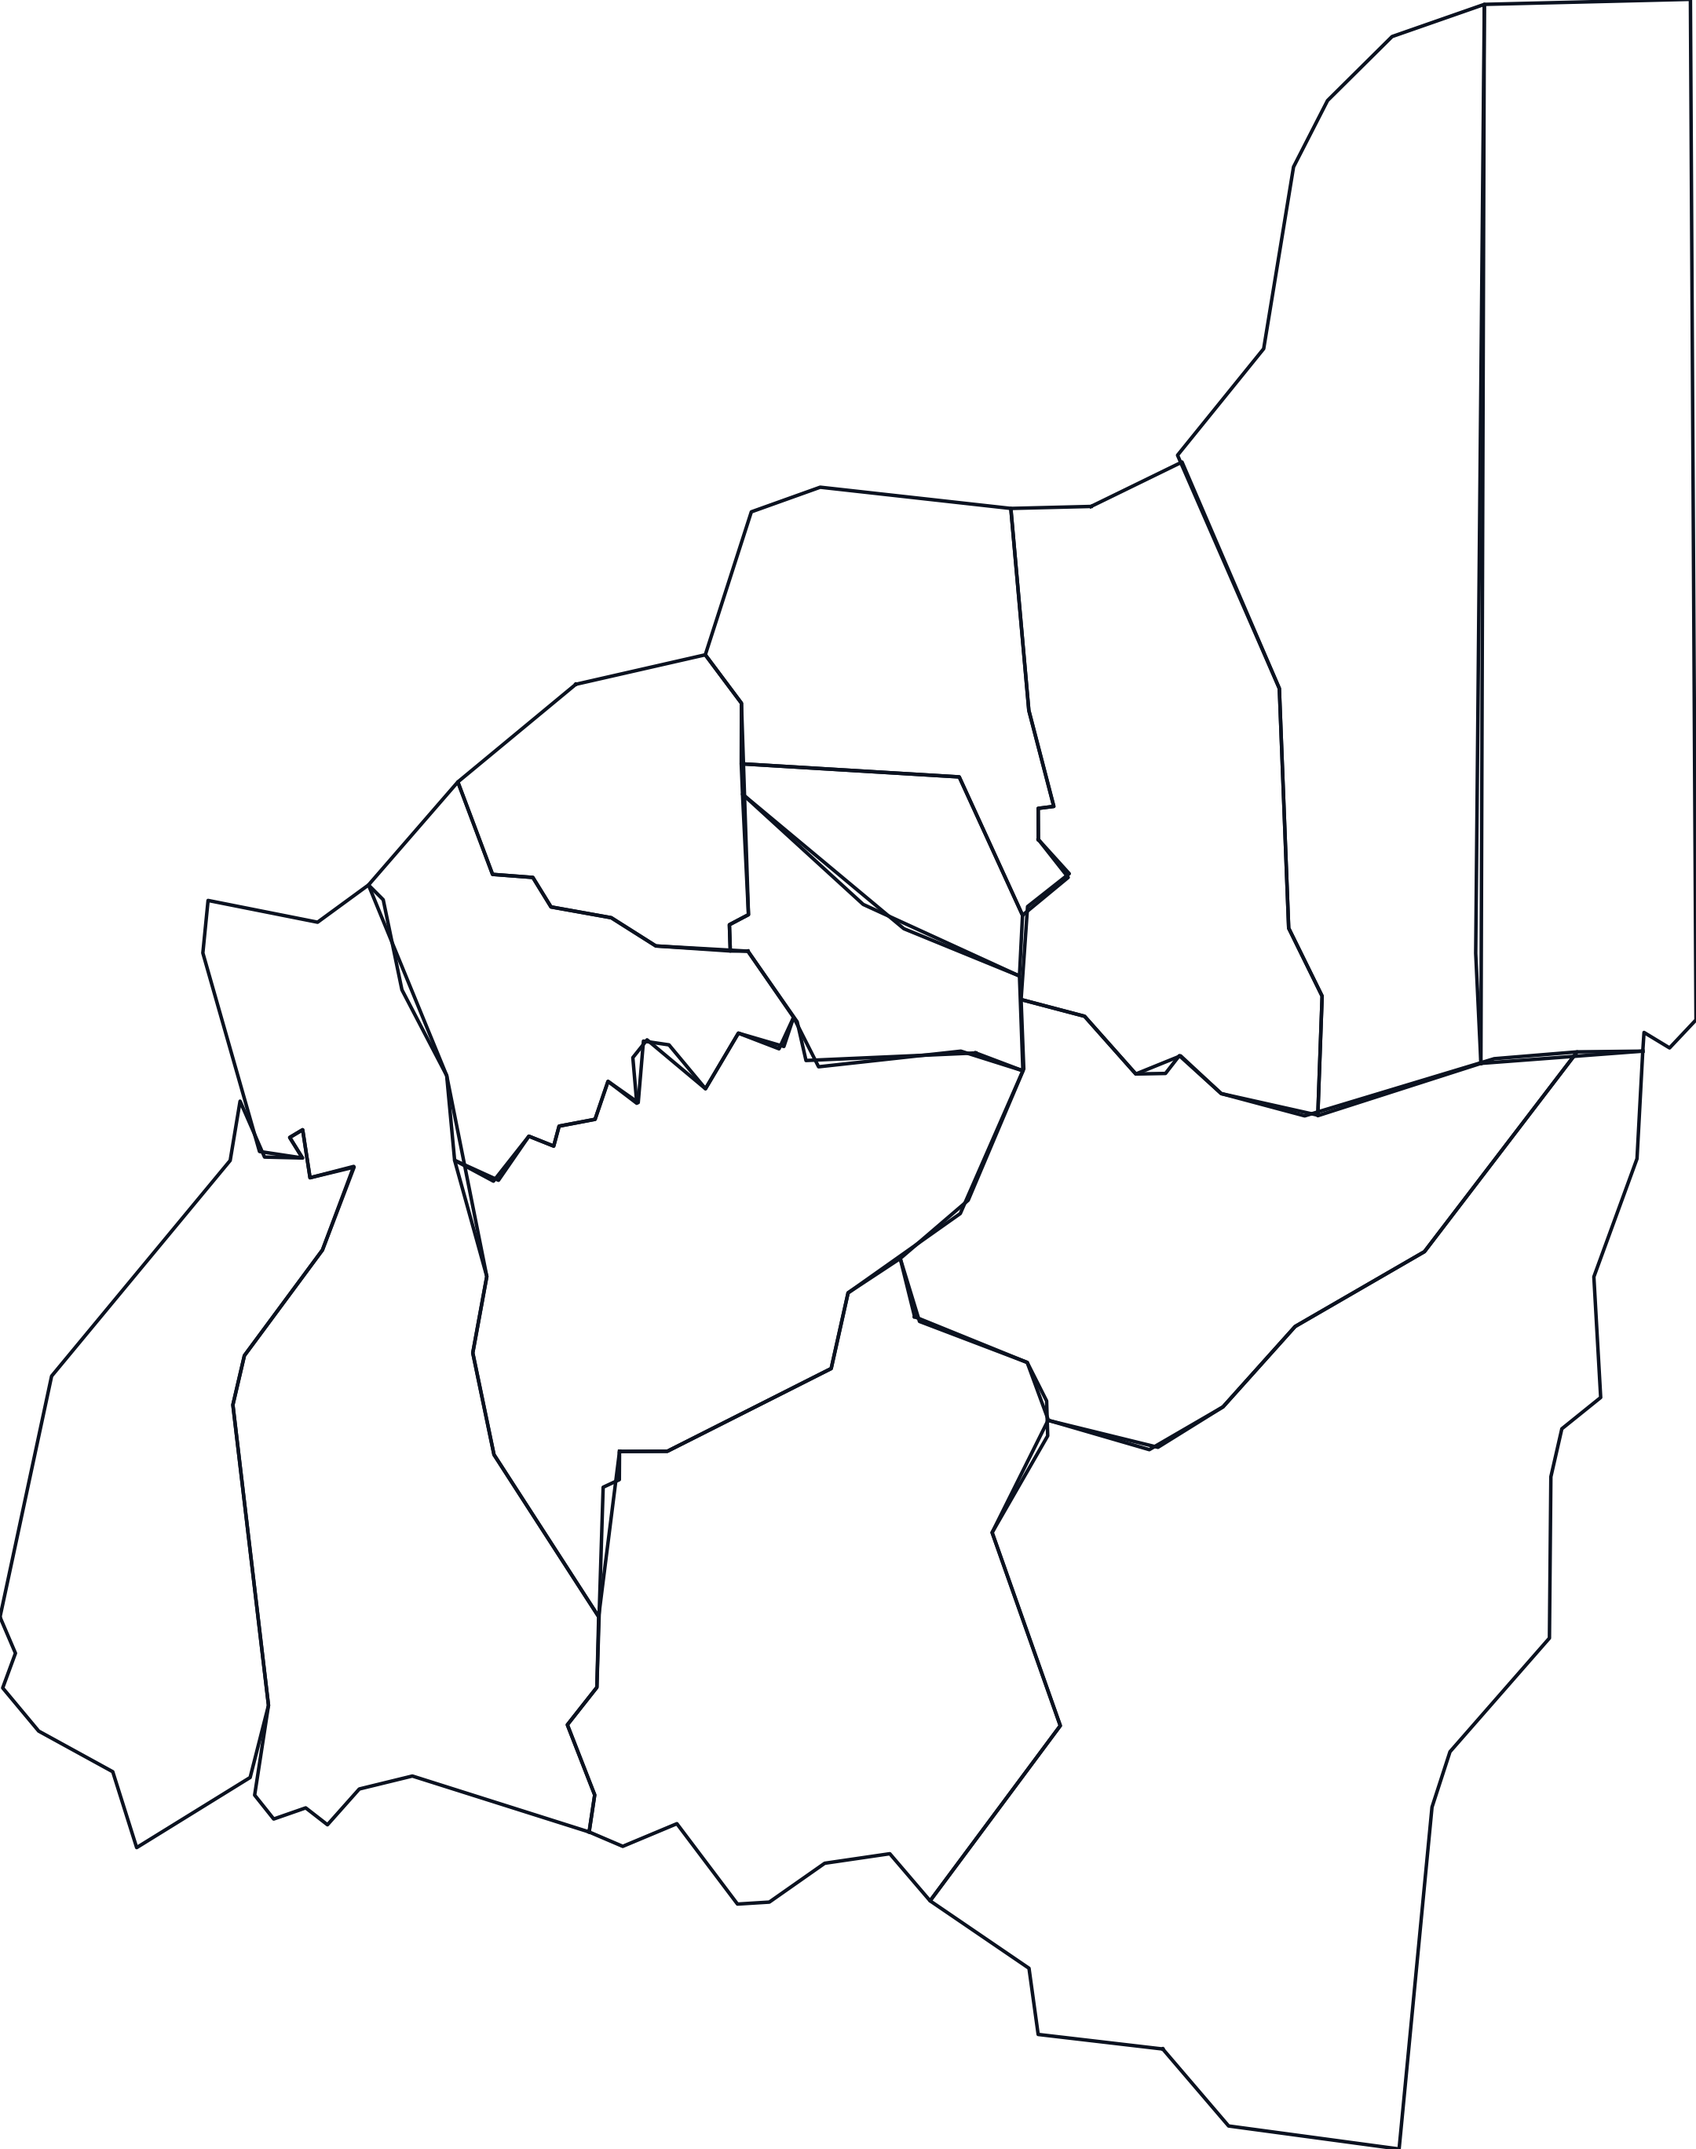
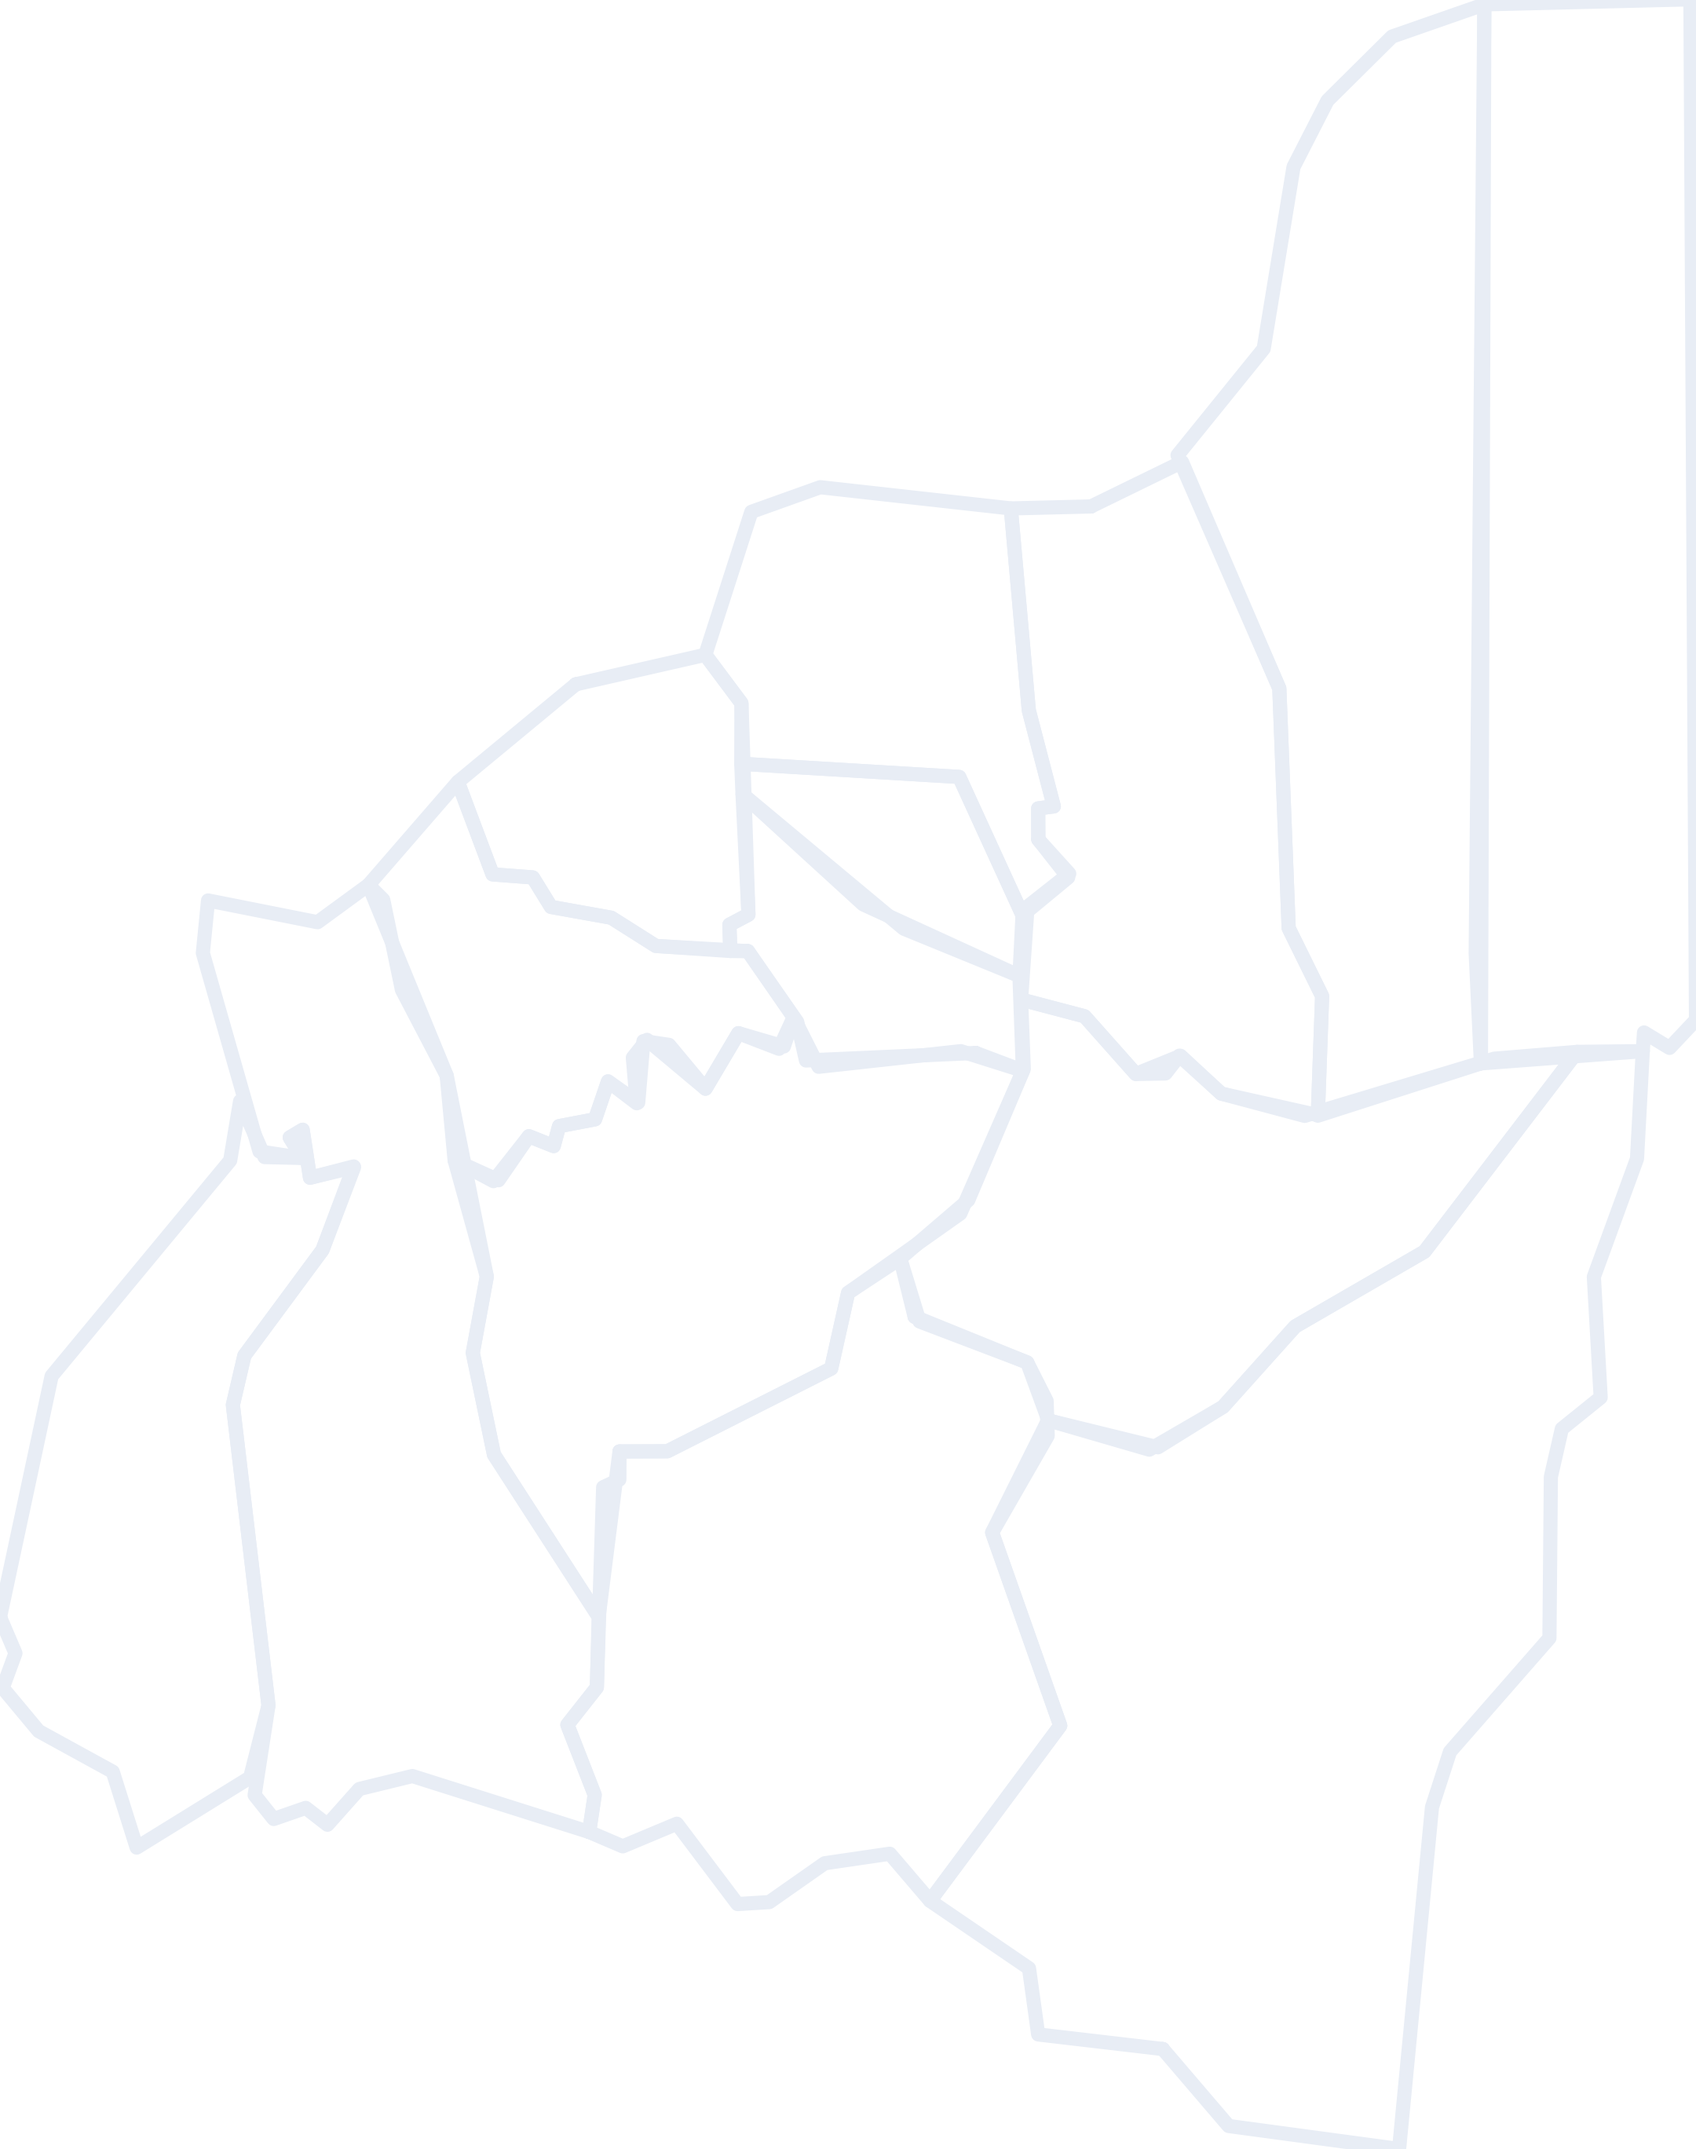
Add files via upload

diff --git a/index.html b/index.html
@@ -220,7 +220,7 @@
     <canvas id="trendCanvas"></canvas>
   </div>
 
-  <footer>Konsentrasi polutan dari <a href="https://open-meteo.com/" target="_blank">Open-Meteo</a> (model CAMS), diperbarui setiap jam. Nilai ISPU dihitung otomatis di aplikasi ini memakai rumus &amp; ambang batas resmi Permen LHK No. P.14/2020, dari 6 dari 7 parameter (tanpa Hidrokarbon/HC).<br>Kecamatan bertanda (*) memakai koordinat estimasi (belum terverifikasi) — cek titik ibukota kecamatan di Google Maps lalu tempel koordinatnya di kolom pencarian untuk mengoreksi.<br>Bukan pengganti data resmi <a href="https://ispu.menlhk.go.id/" target="_blank">ISPU KLHK</a>, dan bukan alat medis — untuk kondisi kesehatan serius, konsultasikan ke tenaga profesional. &copy Raynold - 2026</footer>
+  <footer>Konsentrasi polutan dari <a href="https://open-meteo.com/" target="_blank">Open-Meteo</a> (model CAMS), diperbarui setiap jam. Nilai ISPU dihitung otomatis di aplikasi ini memakai rumus &amp; ambang batas resmi Permen LHK No. P.14/2020, dari 6 dari 7 parameter (tanpa Hidrokarbon/HC).<br>Kecamatan bertanda (*) memakai koordinat estimasi (belum terverifikasi) — cek titik ibukota kecamatan di Google Maps lalu tempel koordinatnya di kolom pencarian untuk mengoreksi.<br>Bukan pengganti data resmi <a href="https://ispu.menlhk.go.id/" target="_blank">ISPU KLHK</a>, dan bukan alat medis — untuk kondisi kesehatan serius, konsultasikan ke tenaga profesional.</footer>
 </div>
 
 <!-- Template infografis (di-render off-screen, ditangkap jadi PNG saat tombol unduh diklik) -->
@@ -453,7 +453,7 @@
 
         <div style="margin-top:40px; padding-top:24px; border-top:1px solid #24324f; font-family:'Inter',sans-serif; font-size:13px; color:#8B96AB; line-height:1.6;">
           Konsentrasi polutan dari Open-Meteo (model CAMS). Nilai ISPU dihitung otomatis memakai rumus &amp; ambang batas resmi Permen LHK No. P.14/2020, dari 6 dari 7 parameter (tanpa Hidrokarbon/HC). Titik koordinat = ibukota kecamatan.<br>
-          Bukan pengganti data resmi ISPU KLHK, dan bukan alat medis. Dibuat otomatis oleh aplikasi Udaraku. &copy Raynold - 2026
+          Bukan pengganti data resmi ISPU KLHK, dan bukan alat medis. Dibuat otomatis oleh aplikasi Udaraku.
         </div>
       </div>`;
   }
@@ -635,28 +635,98 @@
     ctx.drawImage(maskCanvas, PAD, HEADER_H, mapW, mapH);
     ctx.drawImage(borderImg, PAD, HEADER_H, mapW, mapH);
 
-    // Label nama + nilai ISPU di titik ibukota tiap kecamatan (koordinat terverifikasi).
+    // Label nama + nilai ISPU sebagai callout (balon dengan penunjuk) di titik ibukota kecamatan.
     function project(lat, lon){
       const x = PAD + (lon - MAP_BBOX.minLon) / (MAP_BBOX.maxLon - MAP_BBOX.minLon) * mapW;
       const y = HEADER_H + (MAP_BBOX.maxLat - lat) / (MAP_BBOX.maxLat - MAP_BBOX.minLat) * mapH;
       return [x, y];
     }
+
+    function drawCallout(ctx, x, y, name, valueLabel, catLabel, color, bounds){
+      const PADX = 26, DOT_R = 12, POINTER_H = 18, GAP = 6, RADIUS = 18;
+      const nameFont = "700 30px 'Space Grotesk', sans-serif";
+      const valueFont = "700 34px 'IBM Plex Mono', monospace";
+      const catFont = "700 19px 'Inter', sans-serif";
+
+      ctx.font = nameFont;
+      const nameW = ctx.measureText(name).width;
+      ctx.font = valueFont;
+      const valueW = ctx.measureText(valueLabel).width;
+      ctx.font = catFont;
+      const catText = catLabel.toUpperCase();
+      const catW = ctx.measureText(catText).width;
+      const row2W = valueW + 12 + catW;
+
+      const boxW = Math.max(nameW, row2W) + PADX*2;
+      const boxH = 118;
+
+      let flipped = false;
+      let boxTopY = y - DOT_R - POINTER_H - boxH;
+      if(boxTopY < bounds.top + 6){ flipped = true; boxTopY = y + DOT_R + POINTER_H; }
+
+      let boxLeftX = x - boxW/2;
+      boxLeftX = Math.max(bounds.left + 4, Math.min(bounds.right - boxW - 4, boxLeftX));
+      const boxCenterX = boxLeftX + boxW/2;
+
+      // Titik lokasi
+      ctx.beginPath(); ctx.arc(x, y, DOT_R, 0, Math.PI*2);
+      ctx.fillStyle = color; ctx.fill();
+      ctx.lineWidth = 3.5; ctx.strokeStyle = '#0B1220'; ctx.stroke();
+
+      // Penunjuk (segitiga) dari kotak ke titik
+      ctx.beginPath();
+      if(!flipped){
+        ctx.moveTo(boxCenterX-11, boxTopY+boxH-1);
+        ctx.lineTo(boxCenterX+11, boxTopY+boxH-1);
+        ctx.lineTo(x, y-DOT_R-2);
+      } else {
+        ctx.moveTo(boxCenterX-11, boxTopY+1);
+        ctx.lineTo(boxCenterX+11, boxTopY+1);
+        ctx.lineTo(x, y+DOT_R+2);
+      }
+      ctx.closePath();
+      ctx.fillStyle = 'rgba(13,20,36,0.94)';
+      ctx.fill();
+
+      // Kotak balon (rounded rect)
+      ctx.beginPath();
+      ctx.moveTo(boxLeftX+RADIUS, boxTopY);
+      ctx.arcTo(boxLeftX+boxW, boxTopY, boxLeftX+boxW, boxTopY+boxH, RADIUS);
+      ctx.arcTo(boxLeftX+boxW, boxTopY+boxH, boxLeftX, boxTopY+boxH, RADIUS);
+      ctx.arcTo(boxLeftX, boxTopY+boxH, boxLeftX, boxTopY, RADIUS);
+      ctx.arcTo(boxLeftX, boxTopY, boxLeftX+boxW, boxTopY, RADIUS);
+      ctx.closePath();
+      ctx.fillStyle = 'rgba(13,20,36,0.94)';
+      ctx.fill();
+      ctx.lineWidth = 3;
+      ctx.strokeStyle = color;
+      ctx.stroke();
+
+      // Teks: nama (baris 1), nilai + kategori (baris 2)
+      ctx.textAlign = 'center';
+      ctx.fillStyle = '#F4F7FB';
+      ctx.font = nameFont;
+      ctx.fillText(name, boxCenterX, boxTopY + 44);
+
+      const row2Y = boxTopY + 92;
+      ctx.textAlign = 'left';
+      let curX = boxCenterX - row2W/2;
+      ctx.font = valueFont;
+      ctx.fillStyle = color;
+      ctx.fillText(valueLabel, curX, row2Y);
+      curX += valueW + 12;
+      ctx.font = catFont;
+      ctx.fillText(catText, curX, row2Y - 2);
+      ctx.textAlign = 'left';
+    }
+
+    const calloutBounds = { left: PAD, right: PAD + mapW, top: HEADER_H };
     items.forEach(it=>{
       const [x, y] = project(it.kec.lat, it.kec.lon);
       const valLabel = it.value != null ? String(it.value) : '—';
-      const label = it.kec.name;
-
-      ctx.font = "600 20px 'Inter', sans-serif";
-      const textW = Math.max(ctx.measureText(label).width, 40) + 22;
-      const boxY = y - 26;
-      ctx.fillStyle = 'rgba(11,18,32,0.75)';
-      ctx.fillRect(x-textW/2, boxY, textW, 52);
-      ctx.fillStyle = '#fff';
-      ctx.textAlign = 'center';
-      ctx.fillText(label, x, boxY+22);
-      ctx.font = "700 20px 'IBM Plex Mono', monospace";
-      ctx.fillText(valLabel, x, boxY+44);
-      ctx.textAlign = 'left';
+      const color = it.cat ? displayColor(it.cat) : '#8B96AB';
+      const catLabel = it.cat ? it.cat.label : 'Tidak diketahui';
+      drawCallout(ctx, x, y, it.kec.name, valLabel, catLabel, color, calloutBounds);
     });
 
     // Legend
@@ -677,7 +747,7 @@
     ctx.fillStyle = '#8B96AB';
     const footerY = HEADER_H + mapH + LEGEND_H + 14;
     wrapCanvasText(ctx,
-      'Bentuk wilayah: ilustrasi raster yang disederhanakan (bukan data batas administrasi yang dapat diunduh ulang). Warna tiap wilayah & kategori mengikuti ISPU Permen LHK No. P.14/2020, dari data Open-Meteo (model CAMS). Label nama menandai titik ibukota kecamatan (koordinat diverifikasi manual). Raynold - 2026',
+      'Bentuk wilayah: ilustrasi raster yang disederhanakan (bukan data batas administrasi yang dapat diunduh ulang). Warna tiap wilayah & kategori mengikuti ISPU Permen LHK No. P.14/2020, dari data Open-Meteo (model CAMS). Label nama menandai titik ibukota kecamatan (koordinat diverifikasi manual).',
       PAD, footerY, W-PAD*2, 28);
 
     return canvas;

diff --git a/sw.js b/sw.js
@@ -1,4 +1,4 @@
-const CACHE = 'udaraku-shell-v14';
+const CACHE = 'udaraku-shell-v15';
 const SHELL = ['./index.html', './manifest.json', './icon-192.png', './icon-512.png', './peta-mask-inhu.png', './peta-garis-inhu.png'];
 
 self.addEventListener('install', (e) => {
